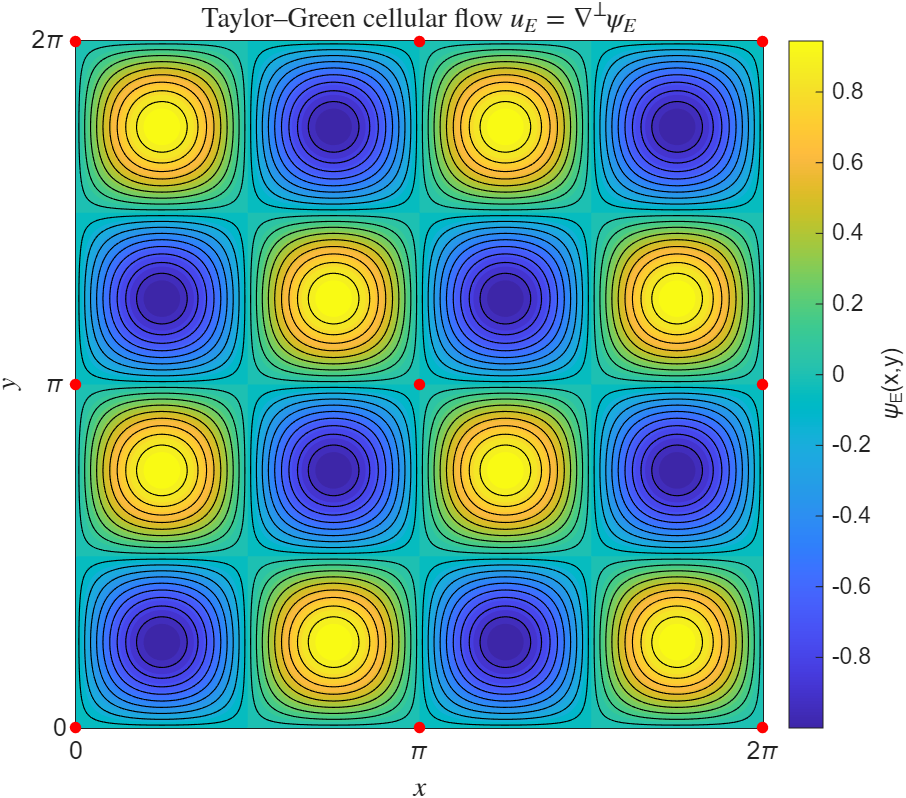
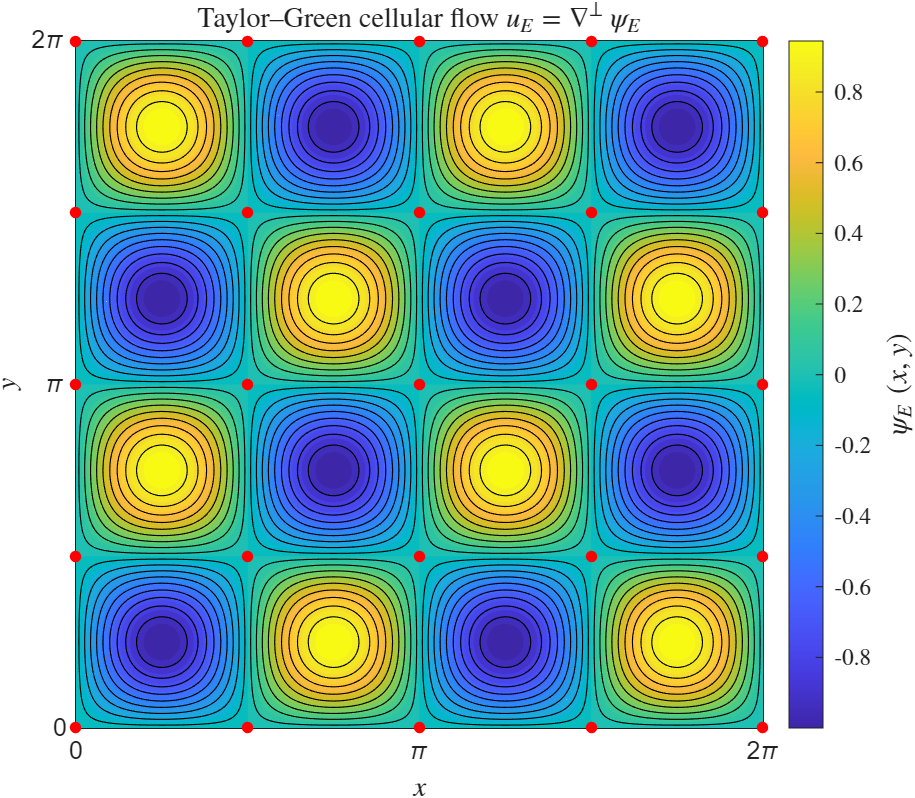
Improved figure labels

diff --git a/matlab/TaylorGreen_flow_visualization.m b/matlab/TaylorGreen_flow_visualization.m
@@ -26,7 +26,10 @@ hold on;
 contourf(X, Y, psi, 35, 'LineColor', 'none');
 colormap(parula);
 cb = colorbar;
-cb.Label.String = '\psi_E(x,y)';
+cb.Label.String = '$\psi_E \; (x,y)$';
+cb.Label.Interpreter = 'latex';
+cb.Label.FontSize = 14;
+cb.TickLabelInterpreter = 'latex';
 
 % Streamlines
 contour(X, Y, psi, 18, 'k', 'LineWidth', 0.55);
@@ -64,7 +67,7 @@ yticklabels({'0','\pi','2\pi'});
 
 xlabel('$x$', 'Interpreter', 'latex', 'FontSize', 14);
 ylabel('$y$', 'Interpreter', 'latex', 'FontSize', 14);
-title('Taylor--Green cellular flow $u_E=\nabla^\perp\psi_E$', ...
+title('Taylor--Green cellular flow $u_E=\nabla^\perp \; \psi_E$', ...
       'Interpreter', 'latex', 'FontSize', 15);
 
 set(gca, 'FontSize', 12, 'LineWidth', 1);